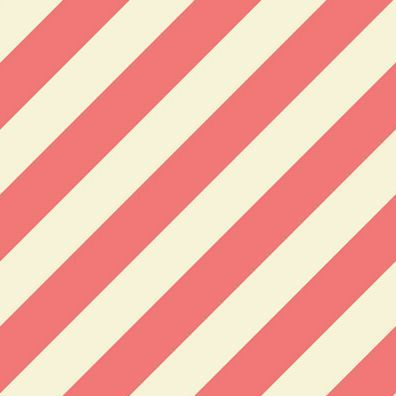
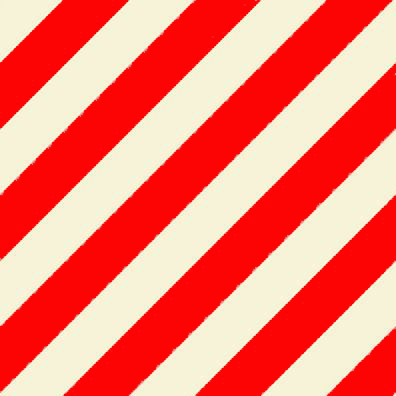
screen fix-11

diff --git a/wp-content/themes/eddiemachado-bones-611c04e/library/css/style.css b/wp-content/themes/eddiemachado-bones-611c04e/library/css/style.css
@@ -1254,7 +1254,7 @@ body
   font-size: 100%;
   line-height: 1.5;
   color: #000;
-  background: linear-gradient(to right, rgba(0, 0, 0, 0.5), rgba(255, 255, 255, 0.5), rgba(0, 0, 0, 0.5)), url(../images/05.jpg) ;
+  background: linear-gradient(to right, rgba(0, 0, 0, 0.4), rgba(255, 255, 255, 0), rgba(0, 0, 0, 0.4)), url(../images/05.jpg) 0 0/15px;
   -webkit-font-smoothing: antialiased; 
   -moz-hyphens: none!important;
   -ms-hyphens: none!important;
